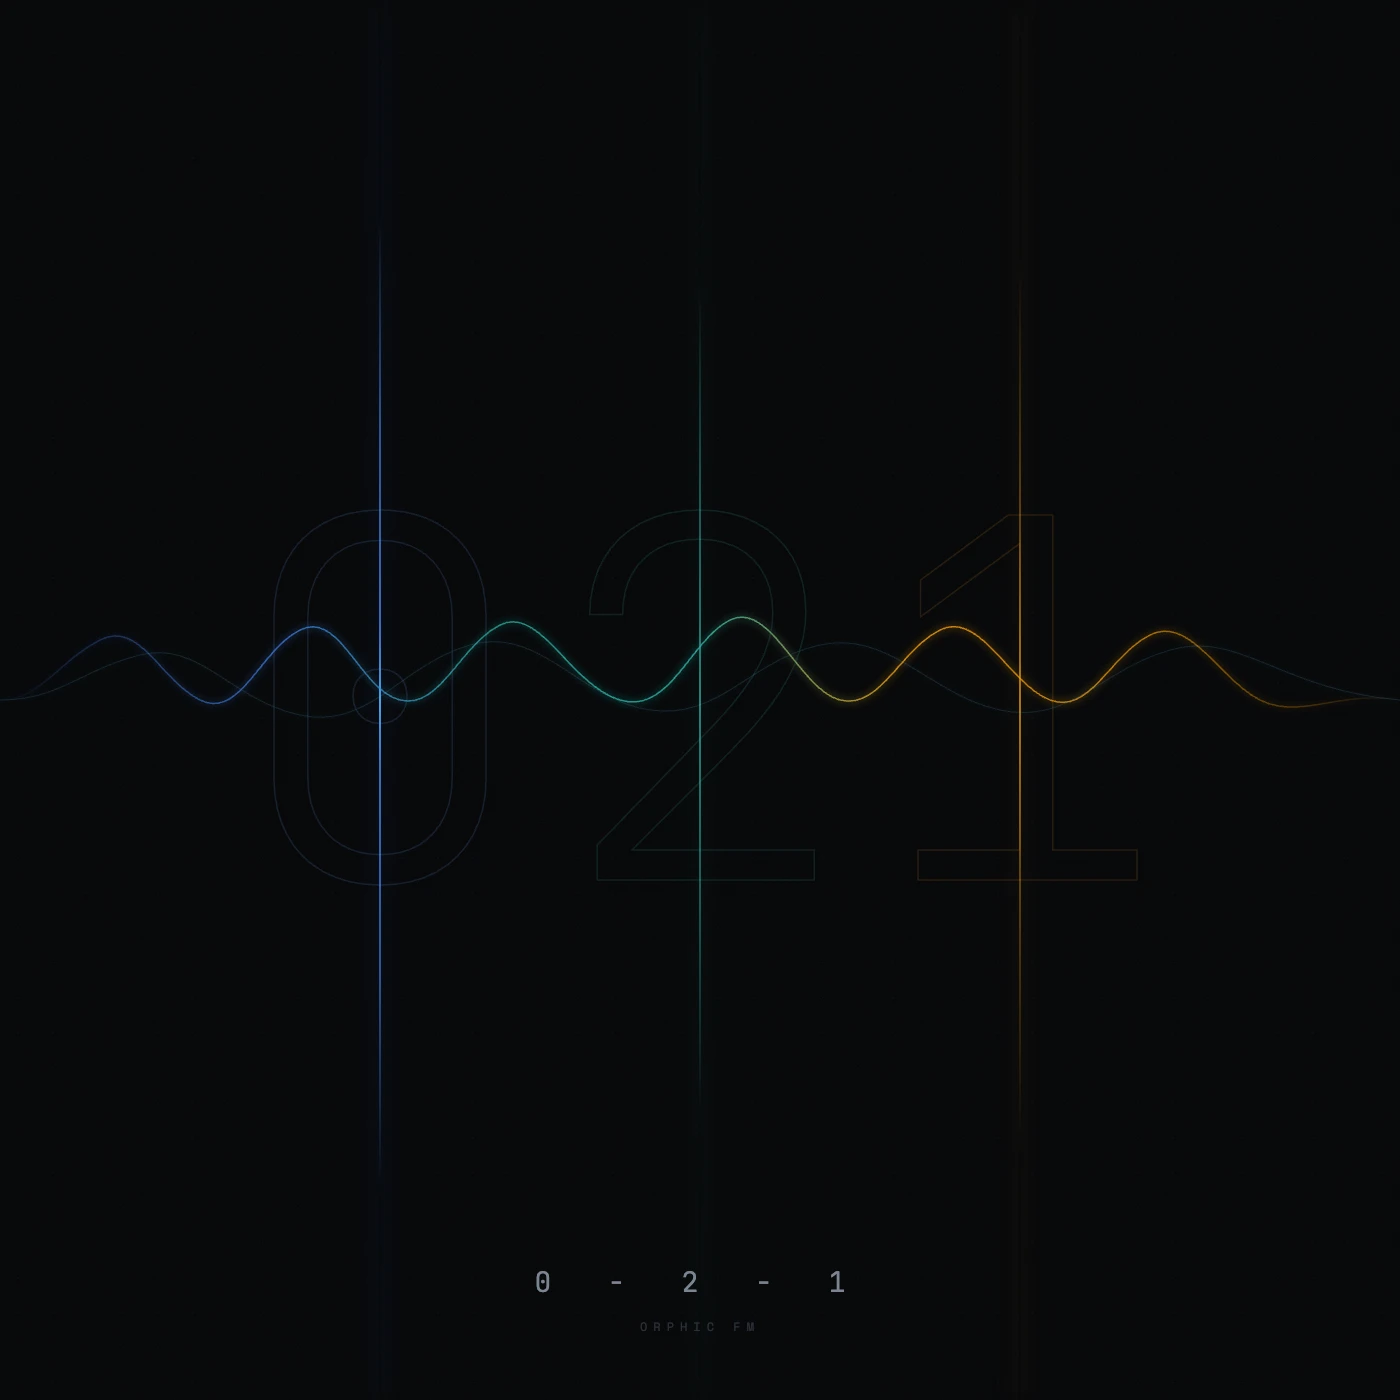
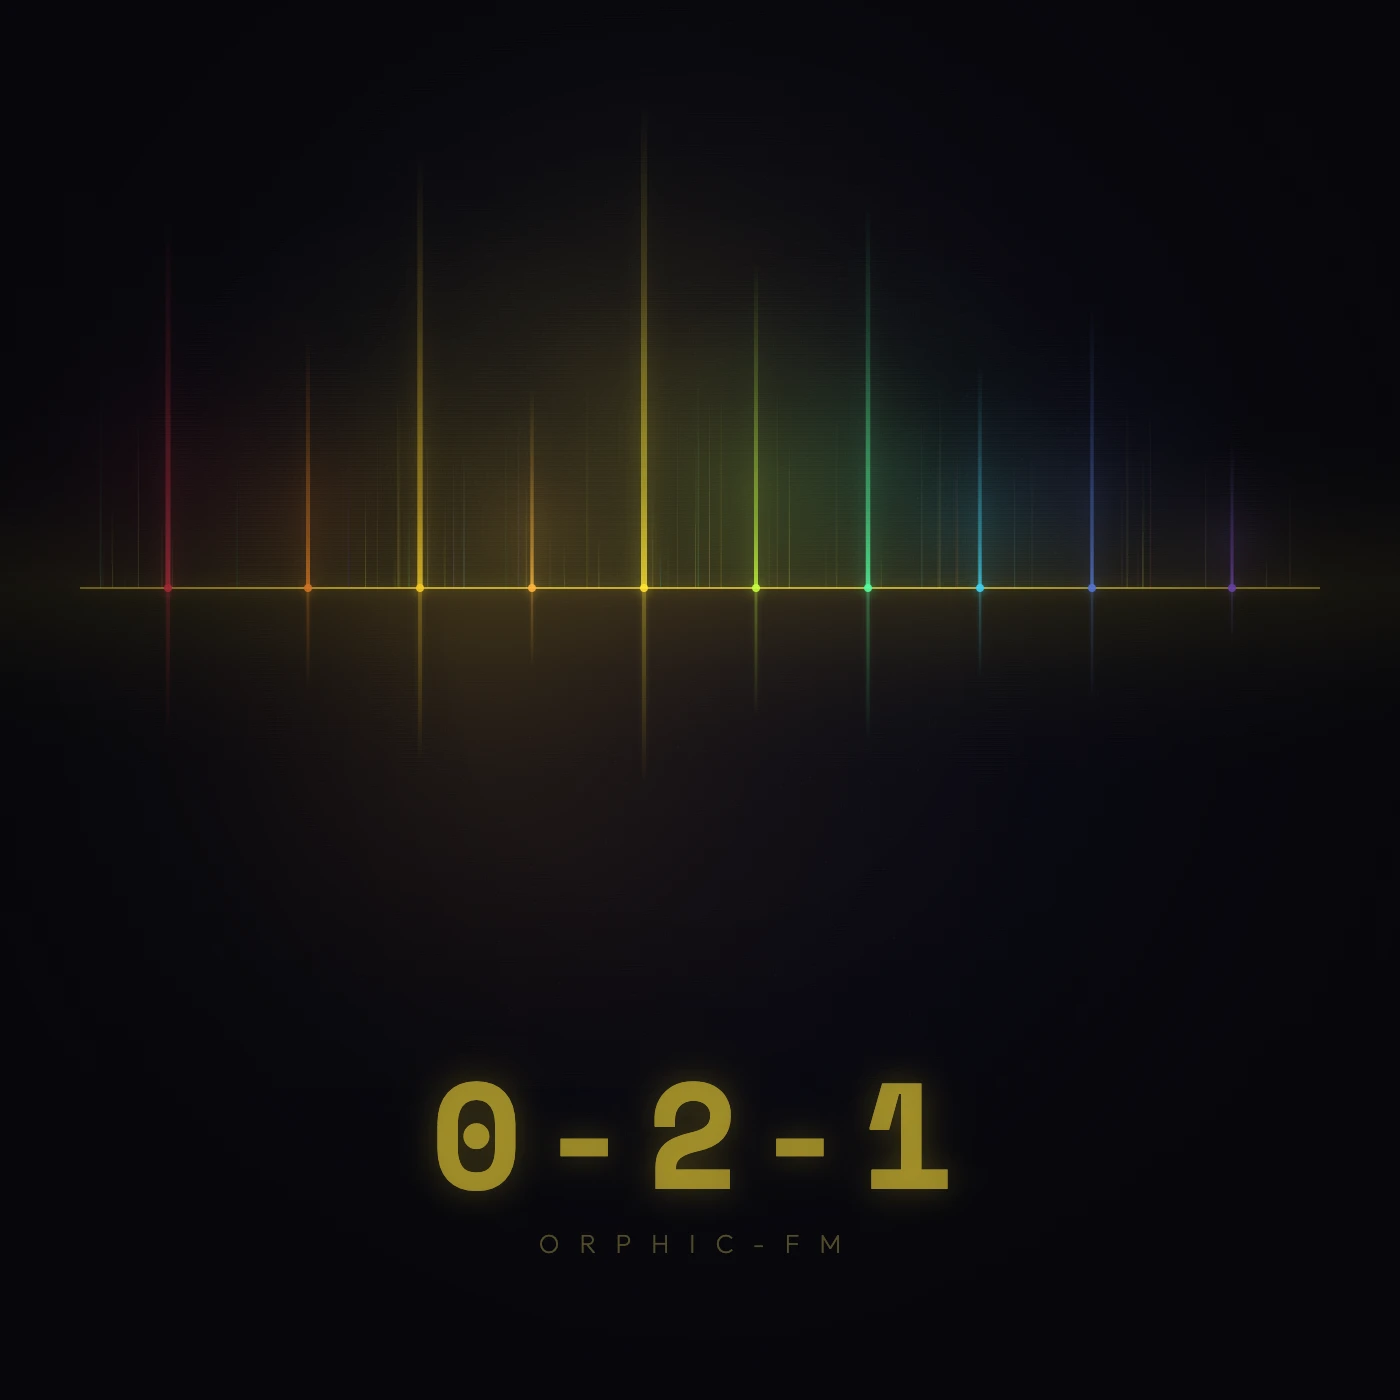
Update 0-2-1: WYSIWYG tech content with C++ migration commit, new album art
Add tech_content and tech_url to WYSIWYG.md referencing the JSyn removal
commit (dde017bd). Replace album poster with neon audio bus visualization.

diff --git a/_albums/0-2-1/WYSIWYG.md b/_albums/0-2-1/WYSIWYG.md
@@ -1,16 +1,17 @@
 ---
 layout: album
 title: "WYSIWYG"
-description: "What you see is what you get. The new signal visualization and bass module make their debut."
+description: "Seeing is believing. A Bassline funk combined with a PolyLFO orchestra produces sonic bliss."
 date: 2026-03-20
 album: "0-2-1"
 track: 1
 featuredSong: true
 video_url: "https://orphic-fm-video.orphic-fm.workers.dev/0-2-1-assets/WYSIWYG.mp4"
 poster_url: "/assets/albums/2026-03-20-0-2-1/poster.webp"
-length: "2:27"
+length: "2:47"
 tags: ["human", "bass", "signal-viz", "lfo"]
-tech_blurb: "First track on the new C++ audio bus. The signal visualization and Bassline module showcase what the MI integration can do."
+tech_blurb: "First track on the new C++ audio bus. The signal visualization provides new insights to whats the shape of the sound and the Bassline module adds the missing groove."
 tech_content: |
-  WYSIWYG debuts the new C++ thin audio bus and direct Mutable Instruments OSS integration. The Bassline module and signal visualization are front and center -- what you see on screen is literally what you hear. Built on the architecture that makes Orphic-FM 1.0 possible.
+  WYSIWYG is the first track produced entirely on the new C++ audio bus — the result of a massive engine migration that removed JSyn and all Kotlin DSP infrastructure, deleting ~28,000 lines of code across 214 files. Every plugin was stripped down to a pure state container that forwards parameters to C++ via `NativeDspBridge`, unifying Desktop (JNI + miniaudio), Android (Oboe), and WASM (Emscripten Worker) under a single native engine. The hard-clipped master output was replaced with `tanh()` soft saturation, letting the Bassline funk and PolyLFO orchestra stack without digital distortion. The signal visualization reads directly from the C++ peak monitor flow, giving a true picture of what the sound actually looks like — what you see is what you get.
+tech_url: "https://github.com/balch/orphic-fm-app/commit/dde017bd"
 ---

diff --git a/albums/0-2-1.md b/albums/0-2-1.md
@@ -5,7 +5,7 @@ album: "0-2-1"
 permalink: /albums/0-2-1/
 poster_url: "/assets/albums/2026-03-20-0-2-1/poster.webp"
 og_image: "/assets/albums/2026-03-20-0-2-1/poster-small.webp"
-description: "**Orpheus** hits 1.0. The synth now runs on every platform, powered by a new C++ thin audio bus that integrates directly with the Mutable Instruments open-source engines. Claude can wire up new instruments with ease -- and the results speak for themselves."
+description: "**Orpheus** hits 1.0. The synth now runs on every platform, powered by a new C++ thin audio bus that integrates directly with the Mutable Instruments open-source engines. Claude can now wire up new instruments with ease."
 tech_description: |
-  0-2-1 marks the 1.0 release of Orphic-FM. The big architectural shift: a C++ thin audio bus that wraps the Mutable Instruments OSS DSP code directly, replacing the previous Kotlin-only signal path. This unlocks native performance on all platforms (Android, iOS, Desktop) and makes it trivial for Claude to wire up new instruments against the MI engines. The first track, WYSIWYG, showcases the new signal visualization and bass module built on this foundation.
+  0-2-1 marks the 1.0 release of Orphic-FM. The big architectural shift: a C++ thin audio bus that wraps the Mutable Instruments OSS DSP code directly, replacing the previous Kotlin-only signal path. This unlocks native performance on all platforms (Android, iOS, Desktop) and makes it trivial for Claude to wire up new instruments against the MI engines.
 ---
